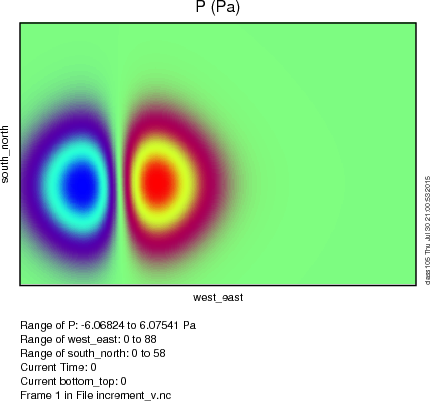
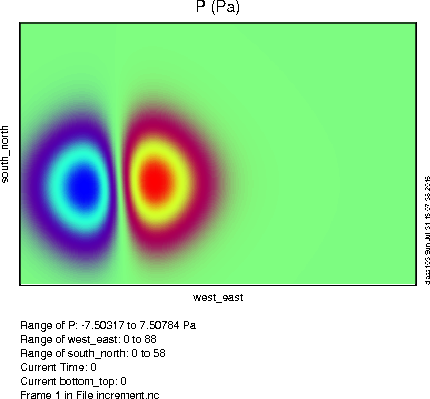
Updating GENBE and PSOT classroom exercise pages, updating images for exercises, adding images for PSOT additional exercises

Changed region(s): [[0.0, 0.2105, 1.0, 0.782], [0.0302, 0.782, 0.4535, 1.0], [0.4535, 0.0, 0.5744, 0.0602]]

diff --git a/Tutorials/2016_Aug/class/psot.html b/Tutorials/2016_Aug/class/psot.html
@@ -61,7 +61,7 @@ a:active {
                 <p>The setup for a pseduo-observation test is the same as <a href="3dvar.html">running WRFDA-3DVAR with real data</a> (except that the observation file ob.ascii is not required):</p>
                 <blockquote>
                   <p class="stylecode">ln -fs /kumquat/users/${USER}/DA/WRFDA/run/LANDUSE.TBL ./LANDUSE.TBL <br>
-                  ln -fs /kumquat/users/${USER}/DA/gen_be/workdir/be.dat ./be.dat <br>
+                  ln -fs /kumquat/users/${USER}/DA/gen_be/gen_be5_cv5/be.dat ./be.dat <br>
                   ln -fs /kumquat/wrfhelp/DATA/WRFDA/CONUS60/rc/2008020512/wrfinput_d01 ./fg <br>
                 </blockquote>
               </blockquote>
@@ -88,7 +88,10 @@ a:active {
               </blockquote>
               <p><span class="bodyh1">Run WRFDA (da_wrfvar.exe)</span> </p>
               <blockquote>
-                <p class="stylecode">mpirun -np 6 /kumquat/users/${USER}/DA/WRFDA/var/build/da_wrfvar.exe</p>
+                <p>The pseudo-single ob test takes very little memory to run compared to a real-data assimilation run, so we can just run it on a single processor:
+                <blockquote>
+                <p class="stylecode">mpirun -np 1 /kumquat/users/${USER}/DA/WRFDA/var/build/da_wrfvar.exe</p>
+                </blockquote>
               </blockquote>
               <p><span class="bodyh1">Check output</span>          </p>
               <blockquote>
@@ -104,42 +107,39 @@ a:active {
                   </tr>
                 </table>
               </blockquote>
-              <span class="bodyh1">Graphics</span>
-              <blockquote>
+              <p><span class="bodyh1">Graphics</span></p>
                 <table border="0" cellpadding="0" cellspacing="0">
                   <tr style="vertical-align: top;">
-                    <td>Use <span class="stylecode">ncdiff</span> and <span class="stylecode">ncview</span> to generate and view the analysis increment file.<br><br>
-                <p>Some useful NCL scripts for this exercise are:<br>
-                  <br>
-                  /kumquat/wrfhelp/DATA/WRFDA/TOOLS/graphics/ncl/WRF-Var_plot.ncl<br>
-                  /kumquat/wrfhelp/DATA/WRFDA/TOOLS/graphics/ncl/WRF_contributed.ncl.test<br>
-                  /kumquat/wrfhelp/DATA/WRFDA/TOOLS/graphics/ncl/psot_xy_auto.ncl<br>
-                  /kumquat/wrfhelp/DATA/WRFDA/TOOLS/graphics/ncl/psot_xz_auto.ncl<br>
-                  /kumquat/wrfhelp/DATA/WRFDA/TOOLS/graphics/ncl/psot_yz_auto.ncl<br>
-                  /kumquat/wrfhelp/DATA/WRFDA/TOOLS/graphics/ncl/psot_h.ncl
-                </p>
-                <p>The plot at right was generated using psot_h.ncl using the following settings:</p>
-                <blockquote>
-                  <p class="stylecode">   works = "pdf"<br>
-                    expt = ""<br>
-                    directory = "/kumquat/users/$USER/DA/singleob/"<br>
-                    first_guess     = addfile(directory+"fg.nc", "r")<br>
-                    analysis        = addfile(directory+"wrfvar_output.nc", "r")<br>
-                    kl=12
-                  </p>
-                </blockquote>
-                <p>Using these settings as a guide, try out the other scripts listed above.</p>
+                    <td><blockquote><p>Some useful NCL scripts for this exercise are:<br>
+                      <br>
+                      /kumquat/wrfhelp/DATA/WRFDA/TOOLS/graphics/ncl/WRF-Var_plot.ncl<br>
+                      /kumquat/wrfhelp/DATA/WRFDA/TOOLS/graphics/ncl/WRF_contributed.ncl.test<br>
+                      /kumquat/wrfhelp/DATA/WRFDA/TOOLS/graphics/ncl/psot_xy_auto.ncl<br>
+                      /kumquat/wrfhelp/DATA/WRFDA/TOOLS/graphics/ncl/psot_xz_auto.ncl<br>
+                      /kumquat/wrfhelp/DATA/WRFDA/TOOLS/graphics/ncl/psot_yz_auto.ncl<br>
+                      /kumquat/wrfhelp/DATA/WRFDA/TOOLS/graphics/ncl/psot_h.ncl
+                    </p>
+                    <p>The plot at right was generated using psot_h.ncl using the following settings:</p>
+                    <blockquote>
+                      <p class="stylecode">   works = "pdf"<br>
+                        expt = ""<br>
+                        directory = "/kumquat/users/$USER/DA/singleob/"<br>
+                        first_guess     = addfile(directory+"fg.nc", "r")<br>
+                        analysis        = addfile(directory+"wrfvar_output.nc", "r")<br>
+                        kl=12
+                      </p>
+                    </blockquote>
+                    <p>Using these settings as a guide, try out the other scripts listed above.</p>
+                    </blockquote></td>
                     <td class="bodytext"><a href="images/psot_h.png"><img src="images/psot_h.png" height="300"></a></td>
                   </tr>
                 </table>
-              </blockquote>
-            </blockquote>
-            <blockquote>
-              <span class="bodyh1">Other practice</span>
+              <p><span class="bodyh1">Other practice</span></p>
+                    <p>Run single ob test with the following additional parameters. All of these can be used on real data runs as well, but it's easier to see their exact effects in the single-ob test.</p>
               <ul>
                 <li>Response of BE length scaling parameters
                   <blockquote>
-                    <p>Run single ob test with the following additional parameters</p>
+                    <p>The following settings reduce the background error length scale by 50%. How would you expect the plots above to change?</p>
                     <p><span class="stylecode">vi namelist.input</span> (reduce length scale by 50%)</p>
                     <p class="stylecode">&amp;wrfvar7<br>
                       len_scaling1 = 0.5<br>
@@ -148,6 +148,7 @@ a:active {
                       len_scaling4 = 0.5<br>
                       len_scaling5 = 0.5<br>
                       /</p>
+                    <p><a href="images/psot_ncview.P.length50.png">Here is the plot of the pressure perturbation with these settings and 'u' as the test variable</a>. Is this the impact you expected?</p>
                   </blockquote>
                 </li>
                 <li>Response of changing BE variances
@@ -161,12 +162,9 @@ a:active {
                       var_scaling4 = 0.25<br>
                       var_scaling5 = 0.25<br>
                       / </p>
+                    <p><a href="images/psot_ncview.P.length50.var25.png">Here is the plot of the pressure perturbation with these settings and 'u' as the test variable</a>. Is this the impact you expected? (hint: check the range of P in the legend)</p>
                 </li>
-                <p>If this was successful, you have reached the end of the basic day 1 exercises! If you have extra time remaining, there are some more exercises you can try:</p>
-                <blockquote>
-                  <li>Try the additional exercises from <a href="wrfda_sessions.html#session_1">the day 1 practice session</a>; they can be found at the bottom of each page<br><br></li>
-                  <li>Try <a href="compile.html">compiling WRFDA yourself</a></li>
-                </blockquote>
+              <p>If this was successful, you can <a href="wrfda_sessions.html#session_3">continue to the next practice case</a>. </p>
               </ul>
             </blockquote>
             <span class="bodyh1"><a name="advanced">Additional practice</span>

diff --git a/Tutorials/2016_Aug/class/genbe.html b/Tutorials/2016_Aug/class/genbe.html
@@ -90,27 +90,35 @@ a:active {
                     export END_DATE=2008020912 &nbsp; # the last perturbation valid date<br>
                     export NUM_LEVELS=40 &nbsp; &nbsp; &nbsp; &nbsp; # e_vert -1<br>
                     export BE_METHOD=NMC<br>
+                    export FCST_RANGE=12<br>
                     export FC_DIR=/kumquat/wrfhelp/DATA/WRFDA/CONUS60/fc<br>
-                    export RUN_DIR=/kumquat/users/${USER}/DA/gen_be/workdir<br>
+                    export RUN_DIR=`pwd`/gen_be${BIN_TYPE}_cv${NL_CV_OPTIONS}<br>
                     export DOMAIN=01<br>
                     export FCST_RANGE1=24<br>
+                    export FCST_RANGE2=12<br>
                     export INTERVAL=12<br>
                     export STRIDE=1</p>
+                    export NOCOLONS=false</p>
                 </blockquote>
                 <p>FC_DIR specifies the directory where the WRF forecast files (wrfout*) reside. Observe the directory structure and how the wrfout files are stored. To generate your own BE file for your own case and domain in the future, you will need to prepare and arrange your wrfout files in the same way (for example, 2008020512/wrfout_d01_2008-02-06_12:00:00; 2008020512 is the initial time, wrfout_d01_2008-02-06_12:00:00 is the 24-hour forecast valid at 2008020612).</p>
-                <p>NL_CV_OPTIONS specifies the control variable option. 5 is for the default wind control variables (psi and chi_u). 7 is for the new option in WRFDA 3.7, which uses u and v as the wind control variables.</p> 
+                <p>NL_CV_OPTIONS specifies the control variable option. 5 is for the default wind control variables (psi and chi_u). 7 is for the new CV7 option, which uses u and v as the wind control variables.</p> 
               </blockquote>
               <p><span class="bodyh1">Run gen_be_wrapper.ksh</span></p>
               <blockquote>
                 <blockquote>
-                  <p class="stylecode">./gen_be_wrapper.ksh &gt;&amp; gen_be.log</p>
+                  <p class="stylecode">./gen_be_wrapper.ksh</p>
                 </blockquote>
                 <p>With these settings, the script should run in about 2 minutes on classroom computers.</p>
               </blockquote>
               <p><span class="bodyh1">Check output</span>
               </p>
+              <table align=center width="90%" border="1" cellpadding="10">
+                <tr>
+                  <td class="style8"><p><b>NOTE:</b> If you see this error message while the script is running <br><kbd><br>/kumquat/users/class103/DA/WRFDA/var/scripts/gen_be/gen_be_stage0_wrf.ksh[59]: .false.: not found [No such file or directory]<br></kbd><br>it can be safely ignored. This is due to a bug that does not affect results and will be fixed in the next release.</p></td>
+                </tr>
+              </table>
               <blockquote>
-                <p>View the log file (gen_be.log) to ensure that all stages (stage0_wrf, stage1, stage2, stage2a, stage3, stage4, gen_be_cov2d) have been run successfully.</p>
+                <p>You should see the following messages as the script runs:</p>
                 <table width="100%" border="1" cellpadding="10">
                   <tr>
                     <td><p class="stylecode">Thu Jul 30 20:02:32 MDT 2015 Start<br>
@@ -205,10 +213,14 @@ a:active {
                   export NUM_LEVELS=40 # 1 point less than stagger points 41<br>
                   export RESOLUTION=60.0  # km<br>
                   export REGION=tutorial     # only for naming output purpose<br>
-                  export BE_DIR=/kumquat/users/${USER}/DA/gen_be/workdir/working<br>
+                  export BE_DIR=/kumquat/users/${USER}/DA/gen_be/gen_be5_cv5/working<br>
                   export BE_NROW=$NUM_LEVELS</p>
+                </blockquote>
+                <p>then run the script</p>
+                <blockquote>
                 <p class="stylecode">./gen_be_plot_wrapper.ksh </p>
-                <p>This wrapper script will create 6 plot files (the "tutorial" part of the name is what you specified for "REGION" in the wrapper script):</p>
+                </blockquote>
+                <p>This wrapper script will create 6 plot files (the "tutorial" part of each file name is what you specified for "REGION" in the wrapper script):</p>
                 <ul>
                 <table border="0" cellpadding="0" cellspacing="0">
                   <tr style="vertical-align: top;">
@@ -255,7 +267,7 @@ a:active {
                   </tr>
                 </table>
               </blockquote>
-              <p>If this was successful, you can <a href="wrfda_sessions.html#session_1">continue to the next practice case</a>.</p>
+              <p>If this was successful, you can <a href="wrfda_sessions.html#session_3">continue to the next practice case</a>.</p>
             </blockquote>
             <span class="bodyh1"><a name="advanced">Additional practice</span>
             <blockquote>
